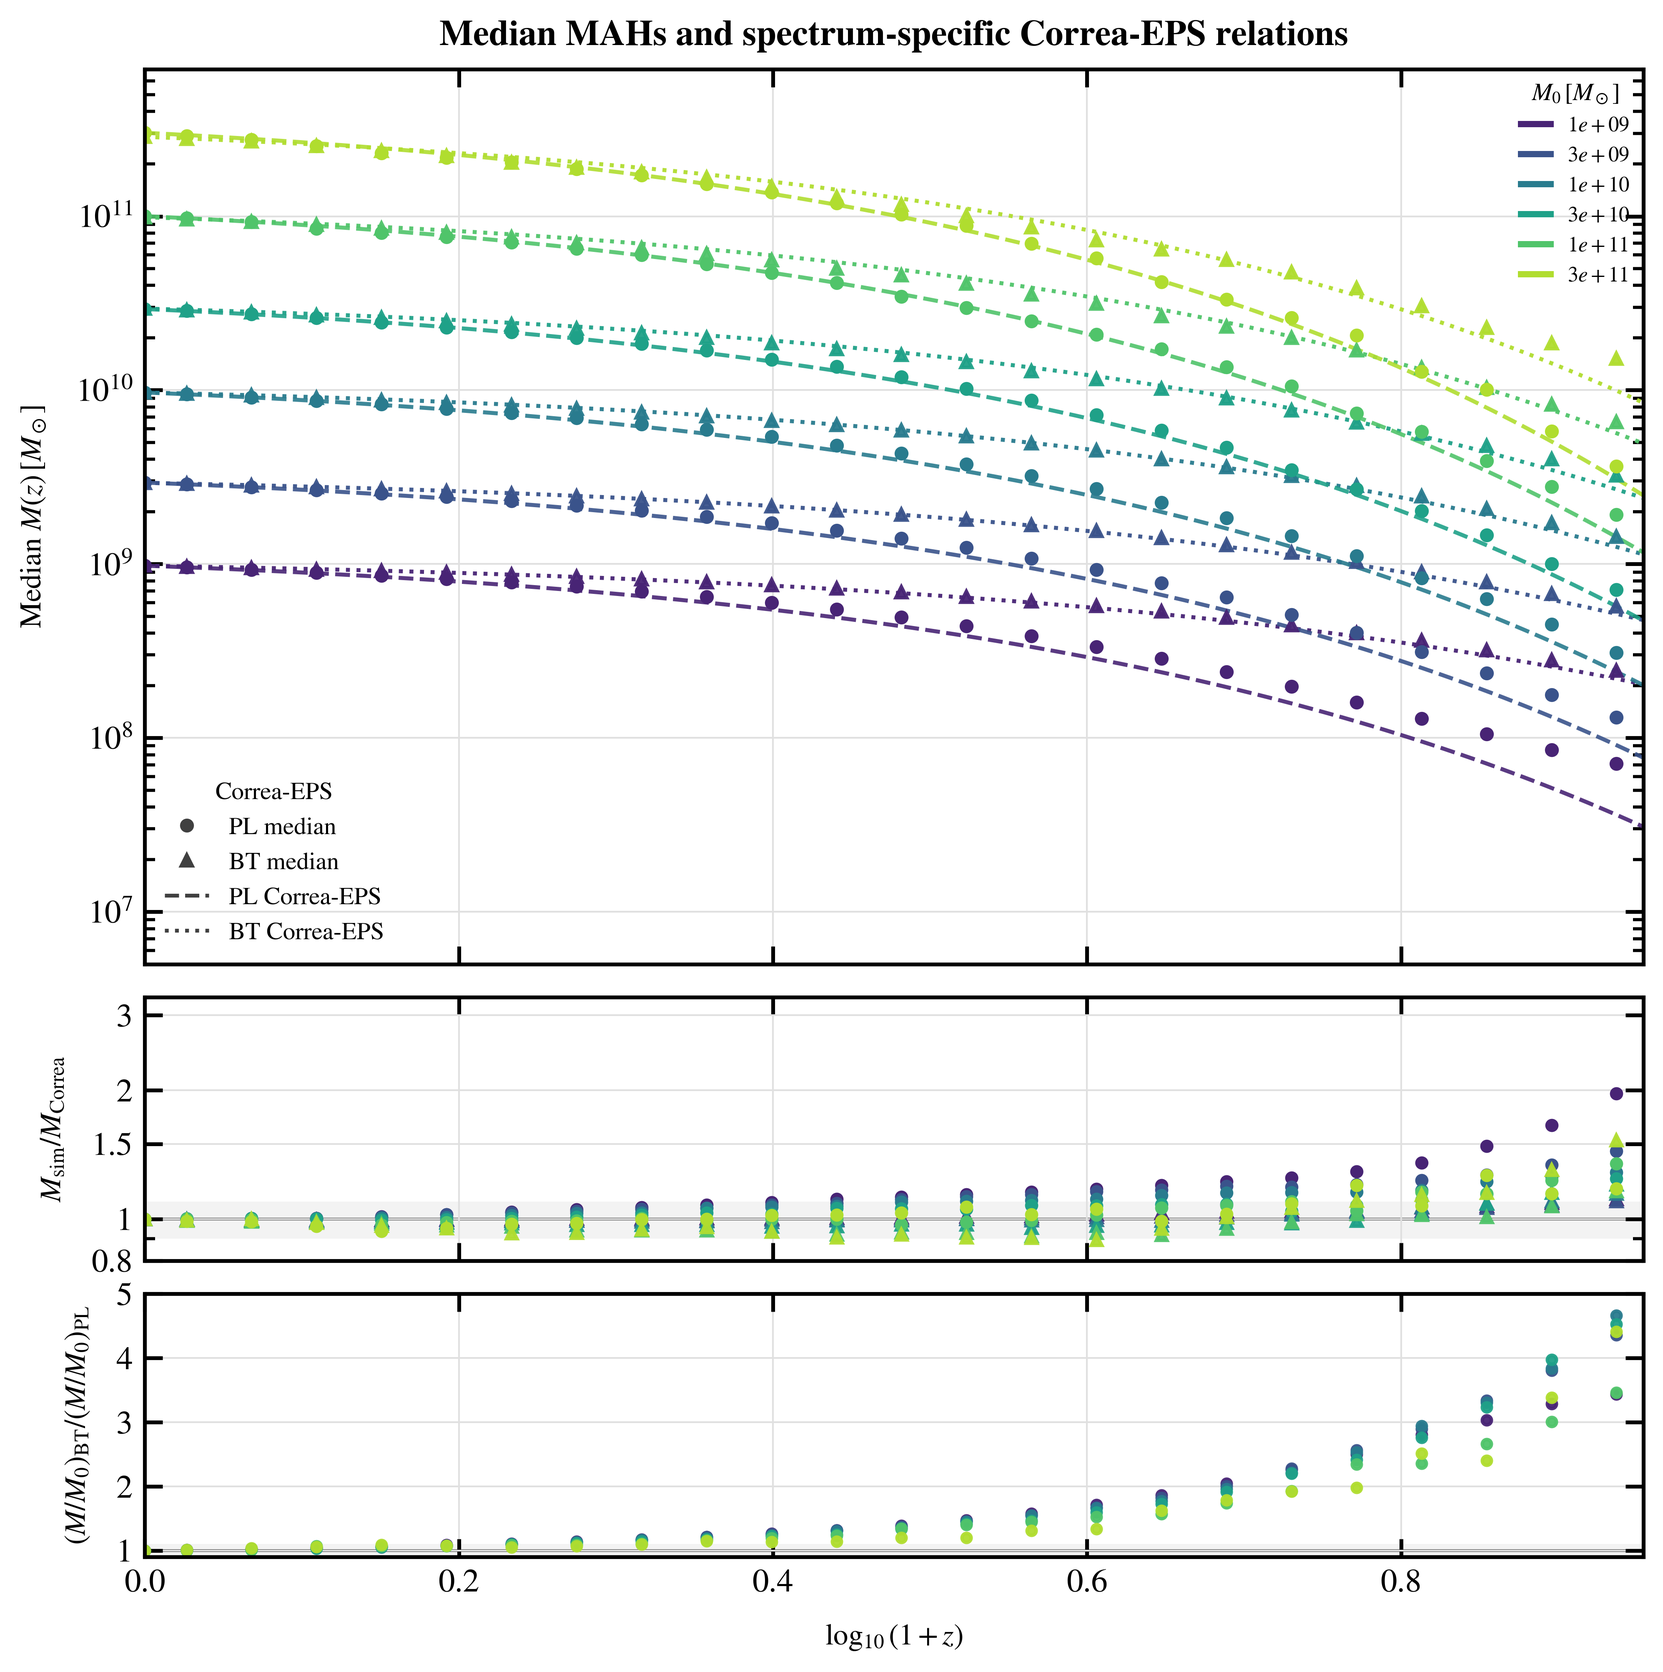
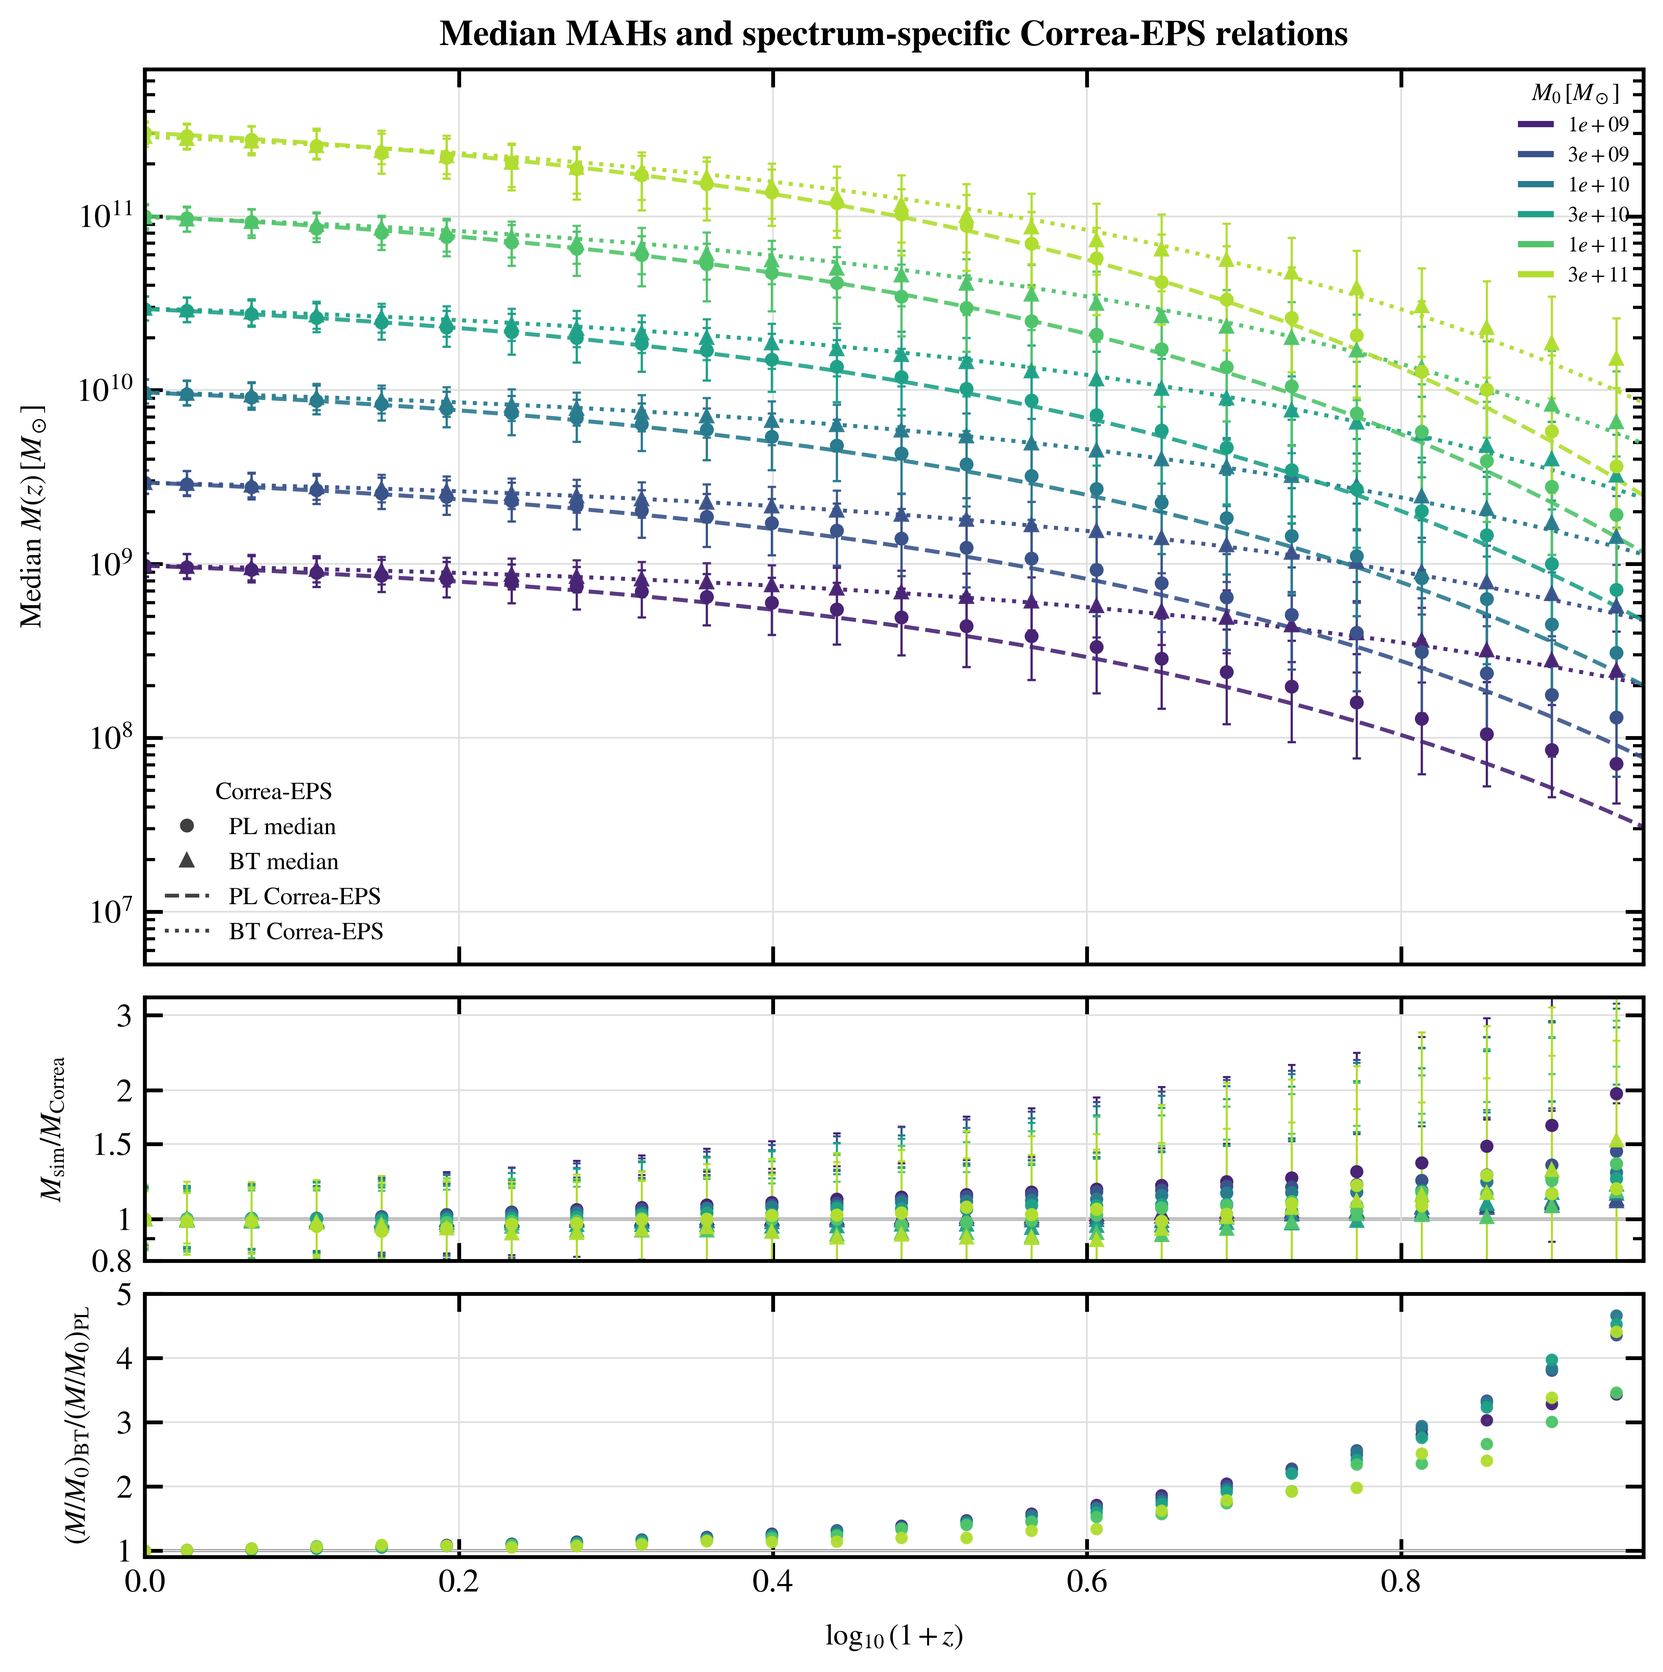
Package article scripts and update MAH uncertainties

diff --git a/public_data/scripts/plot_mass_assembly_history_correa.py b/public_data/scripts/plot_mass_assembly_history_correa.py
@@ -98,6 +98,13 @@ def mass_interval_errors(
     return np.vstack([lower, upper])
 
 
+def direct_halo_interval_errors(direct: pd.DataFrame) -> np.ndarray:
+    median = direct["median_M_msun"].to_numpy(dtype=float)
+    lower = median - direct["p16_M_msun"].to_numpy(dtype=float)
+    upper = direct["p84_M_msun"].to_numpy(dtype=float) - median
+    return np.vstack([lower, upper])
+
+
 def normalized_bt_to_pl_ratio(
     bt_direct: pd.DataFrame, pl_direct: pd.DataFrame
 ) -> tuple[np.ndarray, np.ndarray, np.ndarray, np.ndarray, np.ndarray]:
@@ -117,7 +124,7 @@ def normalized_bt_to_pl_ratio(
 def make_figure(
     output: Path,
     errorbar_table: Path | None = None,
-    interval_kind: str = "bootstrap",
+    interval_kind: str = "halo",
 ) -> None:
     pl_curves = pd.read_csv(DATA_DIR / "pl_project_warren_curves.csv")
     bt_curves = pd.read_csv(DATA_DIR / "bt_project_warren_curves.csv")
@@ -146,9 +153,10 @@ def make_figure(
         bt_solved = reference_curve(bt_curves, float(bt_row["median_M0_Msun"]))
         ax.plot(np.log10(1.0 + pl_solved["z"]), pl_solved["M_msun"], color=color, lw=1.15, ls="--", alpha=0.90)
         ax.plot(np.log10(1.0 + bt_solved["z"]), bt_solved["M_msun"], color=color, lw=1.15, ls=":", alpha=0.95)
-        pl_mass_errors = None
-        bt_mass_errors = None
-        if errorbars is not None:
+        if interval_kind == "halo":
+            pl_mass_errors = direct_halo_interval_errors(pl_direct)
+            bt_mass_errors = direct_halo_interval_errors(bt_direct)
+        elif errorbars is not None:
             pl_mass_errors = mass_interval_errors(
                 errorbars,
                 "PL",
@@ -156,6 +164,8 @@ def make_figure(
                 pl_direct["z"].to_numpy(dtype=float),
                 interval_kind,
             )
+        else:
+            raise ValueError("--errorbar-table is required for bootstrap intervals")
             bt_mass_errors = mass_interval_errors(
                 errorbars,
                 "BT_kp1",
@@ -262,7 +272,6 @@ def make_figure(
     ax.set_title("Median MAHs and spectrum-specific Correa-EPS relations", pad=7)
     format_axes(ax, grid=True)
 
-    ratio_ax.axhspan(0.9, 1.1, color="0.75", alpha=0.18, lw=0, zorder=0)
     ratio_ax.axhline(1.0, color="0.25", lw=0.75, zorder=1)
     ratio_ax.set_yscale("log")
     ratio_ax.set_ylim(0.8, 3.3)
@@ -272,7 +281,6 @@ def make_figure(
     format_axes(ratio_ax, grid=True)
     plt.setp(ratio_ax.get_xticklabels(), visible=False)
 
-    bt_pl_ax.axhspan(0.9, 1.1, color="0.75", alpha=0.18, lw=0, zorder=0)
     bt_pl_ax.axhline(1.0, color="0.25", lw=0.75, zorder=1)
     bt_pl_ax.set_ylim(0.9, 5.0)
     bt_pl_ax.set_yticks([1.0, 2.0, 3.0, 4.0, 5.0])
@@ -323,12 +331,12 @@ def parse_args() -> argparse.Namespace:
         "--errorbar-table",
         type=Path,
         default=None,
-        help="Optional bootstrap table used for 68 per cent median error bars.",
+        help="Bootstrap table; only required when --interval-kind=bootstrap.",
     )
     parser.add_argument(
         "--interval-kind",
         choices=["bootstrap", "halo"],
-        default="bootstrap",
+        default="halo",
         help="Show bootstrap uncertainty of the median or halo-to-halo percentiles.",
     )
     return parser.parse_args()

diff --git a/main.tex b/main.tex
@@ -428,7 +428,7 @@ q&=4.137\,\widetilde z_{\rm f}^{-0.9476}.
 \begin{figure*}[t]
     \centering
     \includegraphics[width=\textwidth]{mass-assembly-history-correa.png}
-    \caption{\currentrevisionblue{{\it Upper panel:} Median FOF mass-assembly histories for halos selected at \(z=0\). Circles show PL simulation medians, and triangles show \BTKPone{} medians; the figure legend abbreviates the latter as BT. Colors indicate six final-mass windows centered on \(10^9\), \(3\times10^9\), \(10^{10}\), \(3\times10^{10}\), \(10^{11}\), and \(3\times10^{11}\,M_\odot\), each with a half-width of 0.1 dex. Halos are followed through their persistent \texttt{TrackId}, and each point is the median positive Warren-corrected FOF mass among the selected halos detected at that snapshot. Dashed and dotted curves show the Correa-EPS calculations using the published \(q\) and \(\widetilde z_{\rm f}\) relations and the PL or \BTKPone{} linear matter power spectrum. The analytic curves are not fitted to the plotted histories. {\it Middle panel:} Ratio of each simulation median to the corresponding Correa-EPS curve at the same redshift. {\it Lower panel:} Ratio of the normalized \BTKPone{} and PL simulation histories, \((M/M_0)_{\rm BT}/(M/M_0)_{\rm PL}\), in each final-mass window. Horizontal lines mark unity, and gray bands mark a \(\pm10\%\) difference. Quantitative interpretation is restricted to \(M_0\ge10^9\,M_\odot\).} \Tk{Check why z>6 is shaded? I don't think it is justified?}}
+    \caption{\currentrevisionblue{{\it Upper panel:} Median FOF mass-assembly histories for halos selected at \(z=0\). Circles show PL simulation medians, and triangles show \BTKPone{} medians; the figure legend abbreviates the latter as BT. Colors indicate six final-mass windows centered on \(10^9\), \(3\times10^9\), \(10^{10}\), \(3\times10^{10}\), \(10^{11}\), and \(3\times10^{11}\,M_\odot\), each with a half-width of 0.1 dex. Halos are followed through their persistent \texttt{TrackId}, and each point is the median positive Warren-corrected FOF mass among the selected halos detected at that snapshot. Error bars show the 16th--84th percentile halo-to-halo range of \(M(z)\) in each final-mass window. Dashed and dotted curves show the Correa-EPS calculations using the published \(q\) and \(\widetilde z_{\rm f}\) relations and the PL or \BTKPone{} linear matter power spectrum. The analytic curves are not fitted to the plotted histories. {\it Middle panel:} Ratio of each simulation median to the corresponding Correa-EPS curve at the same redshift. The error bars show the same halo-to-halo intervals divided by the Correa-EPS value. {\it Lower panel:} Ratio of the normalized \BTKPone{} and PL simulation histories, \((M/M_0)_{\rm BT}/(M/M_0)_{\rm PL}\), in each final-mass window. Horizontal lines mark unity. Quantitative interpretation is restricted to \(M_0\ge10^9\,M_\odot\).} \Tk{Check why z>6 is shaded? I don't think it is justified?}}
     \label{fig:mass_assembly_history_correa}
 \end{figure*}
 

diff --git a/public_data/scripts/build_reproducibility_release.py b/public_data/scripts/build_reproducibility_release.py
@@ -25,24 +25,6 @@ DEFAULT_COLOSSUS_PATCH_ROOT = Path(
     "/oss06/data/project/tkcastrosim/HNHuang/project_big_sim/software/colossus"
 )
 
-PLOTTING_SCRIPTS = [
-    "bt_plot_halo_density_profile_png.py",
-    "bt_plot_halo_density_radial_trial_png.py",
-    "concentration_qc_kp10.py",
-    "cosmology_plot_style.py",
-    "plot_bocquet16_m200c_hmf.py",
-    "plot_fof_hmf_resolution.py",
-    "plot_hmf_public_ratio.py",
-    "plot_input_power_spectrum.py",
-    "plot_mass_assembly_history_correa.py",
-    "plot_power_spectrum_public_ratio.py",
-    "plot_projection_public.py",
-    "plot_same_trackid_no_envelope_allmodels.py",
-    "reproduce_all_figures.py",
-    "validate_article_halo_catalog.py",
-]
-
-
 def parse_args() -> argparse.Namespace:
     parser = argparse.ArgumentParser(description=__doc__)
     parser.add_argument("--output", type=Path, required=True)
@@ -148,8 +130,11 @@ def main() -> None:
         ARTICLE_ROOT / "public_data" / "requirements-figures.txt",
         output / "requirements.txt",
     )
-    for name in PLOTTING_SCRIPTS:
-        copy_file(SCRIPT_DIR / name, output / "public_data" / "scripts" / name)
+    shutil.copytree(
+        SCRIPT_DIR,
+        output / "public_data" / "scripts",
+        ignore=ignore_generated,
+    )
 
     projection_target = output / "public_data" / "figure_data" / "projection"
     copy_file(args.projection_dir / "projection-clean.png", projection_target / "projection-clean.png")

diff --git a/public_data/scripts/README.md b/public_data/scripts/README.md
@@ -1,0 +1,79 @@
+# Article Script Guide
+
+This directory contains the complete set of 29 scripts retained with the
+article. It stays flat because several scripts import the shared plotting
+module or call neighboring scripts by filename. Classification is recorded
+here and in `SCRIPT_MANIFEST.csv` without changing those stable paths.
+
+## Reproduce the manuscript figures
+
+From the root of the release, run:
+
+```bash
+python public_data/scripts/reproduce_all_figures.py
+```
+
+This command uses the released reduced data and regenerates all 12 manuscript
+figures. It does not read the full SWIFT snapshots or complete halo catalogs.
+
+## Current portable figure scripts
+
+- `reproduce_all_figures.py`: runs and validates the complete 12-figure set.
+- `plot_input_power_spectrum.py`: input linear matter spectra.
+- `plot_projection_public.py`: projected-density mosaic labels.
+- `plot_hmf_public_ratio.py`: FOF halo mass function.
+- `plot_bocquet16_m200c_hmf.py`: M200c halo mass function.
+- `plot_same_trackid_no_envelope_allmodels.py`: half-mass redshift.
+- `plot_mass_assembly_history_correa.py`: median mass-assembly histories.
+- `bt_plot_halo_density_radial_trial_png.py`: radial density profiles.
+- `concentration_qc_kp10.py`: three concentration figures.
+- `plot_power_spectrum_public_ratio.py`: nonlinear matter power spectrum.
+- `plot_fof_hmf_resolution.py`: FOF resolution and volume appendix.
+
+## Upstream cluster reductions
+
+These scripts require project simulation products or complete catalogs. Run
+them through Slurm in the project workspace; they are not part of the portable
+one-command path.
+
+- `halomass_fof_reed07.py`: derives FOF mass-function measurements.
+- `compute_sim_power_spectrum.py`: measures simulation power spectra.
+- `plot_power_spectrum_bt_over_pl.py`: builds the nonlinear power-spectrum
+  comparison tables and project figure.
+- `extract_article_halo_catalog.py`: builds the compact per-halo release.
+
+## Validation and release workflow
+
+- `validate_article_halo_catalog.py`: validates the compact catalog against
+  released figure tables.
+- `summarize_concentration_metrics.py`: regenerates concentration summaries.
+- `build_reproducibility_release.py`: assembles the self-contained archive.
+- `submit_extract_article_halo_catalog.sbatch`: catalog-extraction Slurm job.
+- `bt_submit_halo_density_radial_n100_power.sh`: radial-profile Slurm job.
+- `plot_mass_assembly_history_correa.sbatch`: MAH plotting Slurm job.
+- `cosmology_plot_style.py`: shared plotting style.
+
+## Archived revision scripts
+
+These files document analyses or figures that were replaced during revision.
+They are retained for provenance and are not called by
+`reproduce_all_figures.py`.
+
+- `bt_plot_halo_density_profile_png.py`
+- `bt_plot_mass_fraction_trackid_png.py`
+- `compute_m200c_main_branch_accretion.py`
+- `plot_m200c_main_branch_accretion.py`
+- `plot_fof_gamma_appendix.py`
+- `plot_power_spectrum_halofit.py`
+- `test_fof_gap_stitching_halfmass.py`
+
+## Execution labels
+
+- `portable`: uses released inputs and can run outside the cluster.
+- `cluster`: expects full project data and must run through Slurm.
+- `current`: supports a current figure or release workflow.
+- `archived`: retained only for provenance.
+
+Temporary diagnostics, failed release copies, version snapshots, and legacy
+power-spectrum scripts are intentionally excluded because they do not produce
+the current manuscript results.

diff --git a/public_data/README.md b/public_data/README.md
@@ -15,7 +15,7 @@ product rather than by raw simulation output.
 - `figure_data/fof_hmf/`: binned FoF halo mass-function points and Reed07 relative differences.
 - `figure_data/m200c_hmf/`: binned `M200c` halo mass-function points used to derive the B16 relative differences.
 - `figure_data/halfmass_redshift/`: same-TrackId half-mass redshift points and summaries.
-- `figure_data/mass_assembly_history/`: same-TrackId median FOF mass histories for PL and the `kp=1` BT model, the Correa curves based on the published mass-dependent relations, and the normalized BT/PL assembly ratio used in `mass-assembly-history-correa.png`. The half-mass-closure tables are retained only as diagnostics and are not used by the figure script.
+- `figure_data/mass_assembly_history/`: same-TrackId median FOF mass histories and 16th--84th percentile halo-to-halo intervals for PL and the `kp=1` BT model, the Correa curves based on the published mass-dependent relations, and the normalized BT/PL assembly ratio used in `mass-assembly-history-correa.png`. The half-mass-closure tables are retained only as diagnostics and are not used by the figure script.
 - `figure_data/mass_accretion/`: archived accretion diagnostics retained for revision traceability. They are not used by the current manuscript figures.
 - `figure_data/halo_density/`: archived concentration-derived NFW curves for the retired `halo-density.png`; not used by the current manuscript figures.
 - `figure_data/halo_density_radial/`: direct particle-count radial density profiles and BT/PL ratios used in `halo-density-radial-n100-power.png`.
@@ -24,9 +24,11 @@ product rather than by raw simulation output.
 - `figure_data/appendix_fof_gap_stitching/`: archived gap-stitching diagnostic retained for revision traceability; not used by the current manuscript.
 - `figure_data/fof_hmf_resolution/`: appendix FOF mass-function resolution and volume check data.
 - `scripts/reproduce_all_figures.py`: one-command regeneration and validation of all 12 manuscript figures.
+- `scripts/README.md`: scripts grouped by final-figure plotting, upstream reduction, validation, workflow, and archived use.
+- `scripts/SCRIPT_MANIFEST.csv`: one row for every article script, including its status and execution scope.
 - `scripts/summarize_concentration_metrics.py`: regenerates the released concentration accuracy and mass-range scatter summaries.
 - `scripts/build_reproducibility_release.py`: project-side assembler for the self-contained archive.
-- `scripts/`: plotting, reduction, catalog-extraction, and validation scripts.
+- `scripts/`: the complete 29-script article set. The directory remains flat so existing imports and commands continue to work.
 
 ## Scope
 

diff --git a/reviewer_comments_record.md b/reviewer_comments_record.md
@@ -776,3 +776,36 @@ updated simulation-to-model differences. The figure has been renamed
 `mass-assembly-history-correa.png`; the older half-mass-closure tables remain
 available only as diagnostic products and are no longer read by the plotting
 script.
+
+## 40. Restore halo-to-halo error bars without shaded regions in the MAH figure
+
+- **Location:** Median Mass-Assembly Histories figure and caption
+- **Status:** Completed
+
+The PL and BT simulation points now show the 16th--84th percentile
+halo-to-halo range of Warren-corrected FOF mass in each final-mass window.
+The middle-panel error bars show the same mass intervals divided by the
+corresponding Correa-EPS value. The figure contains no shaded regions; only
+horizontal unity lines remain in the ratio panels. The analytic curves,
+simulation medians, and quantitative comparison ranges are unchanged.
+
+## 41. Classify and include the complete article script set
+
+- **Location:** Public-data script package and release builder
+- **Status:** Completed
+
+All 29 scripts retained with the article are now indexed by purpose, status,
+and execution scope. The index separates current portable figure scripts from
+upstream cluster reductions, validation tools, workflow wrappers, shared code,
+and archived revision diagnostics. The scripts remain in one directory so the
+existing imports and one-command figure workflow do not change.
+
+The release builder now copies the complete script directory rather than a
+hand-maintained subset. The public manifest includes the four previously
+unlisted scripts plus the new script guide and machine-readable index. The MAH
+Slurm wrapper now writes the current `mass-assembly-history-correa.png`
+filename. Failed release copies, legacy analysis directories, and raw
+simulation data remain outside the public package.
+
+The D19 and I21 concentration PNGs were regenerated from the assembled release
+so the article figures now match the portable plotting scripts exactly.

diff --git a/public_data/REPRODUCIBILITY_PACKAGE.md b/public_data/REPRODUCIBILITY_PACKAGE.md
@@ -17,6 +17,10 @@ The second command writes the 12 PNG files to `reproduced_figures/` and writes
 `figure_manifest_sha256.csv` with image dimensions, byte sizes, and SHA-256
 checksums. Use `--overwrite` to replace a previous run.
 
+See `public_data/scripts/README.md` for the script groups and
+`public_data/scripts/SCRIPT_MANIFEST.csv` for the complete file-level index.
+The one-command driver uses only the current portable plotting scripts.
+
 ## Included Inputs
 
 - `public_data/figure_data/`: reduced figure-level CSV tables.
@@ -43,6 +47,12 @@ The package reproduces every plotted figure without access to the original
 cluster paths. The full SWIFT snapshots, particle coordinates, and complete
 HBT-HERONS/SOAP catalogs are not included because they are hundreds of
 gigabytes per model.
+
+All 29 scripts retained with the article are included in the archive. This set
+contains the portable figure scripts, upstream cluster reductions, validation
+tools, Slurm wrappers, and archived scripts kept for revision provenance.
+Archived scripts are identified in `SCRIPT_MANIFEST.csv` and are not called by
+the one-command figure driver.
 
 The projected-density input is a derived two-dimensional mosaic. It reproduces
 the published projection and its labels, but it cannot be used to choose a new
